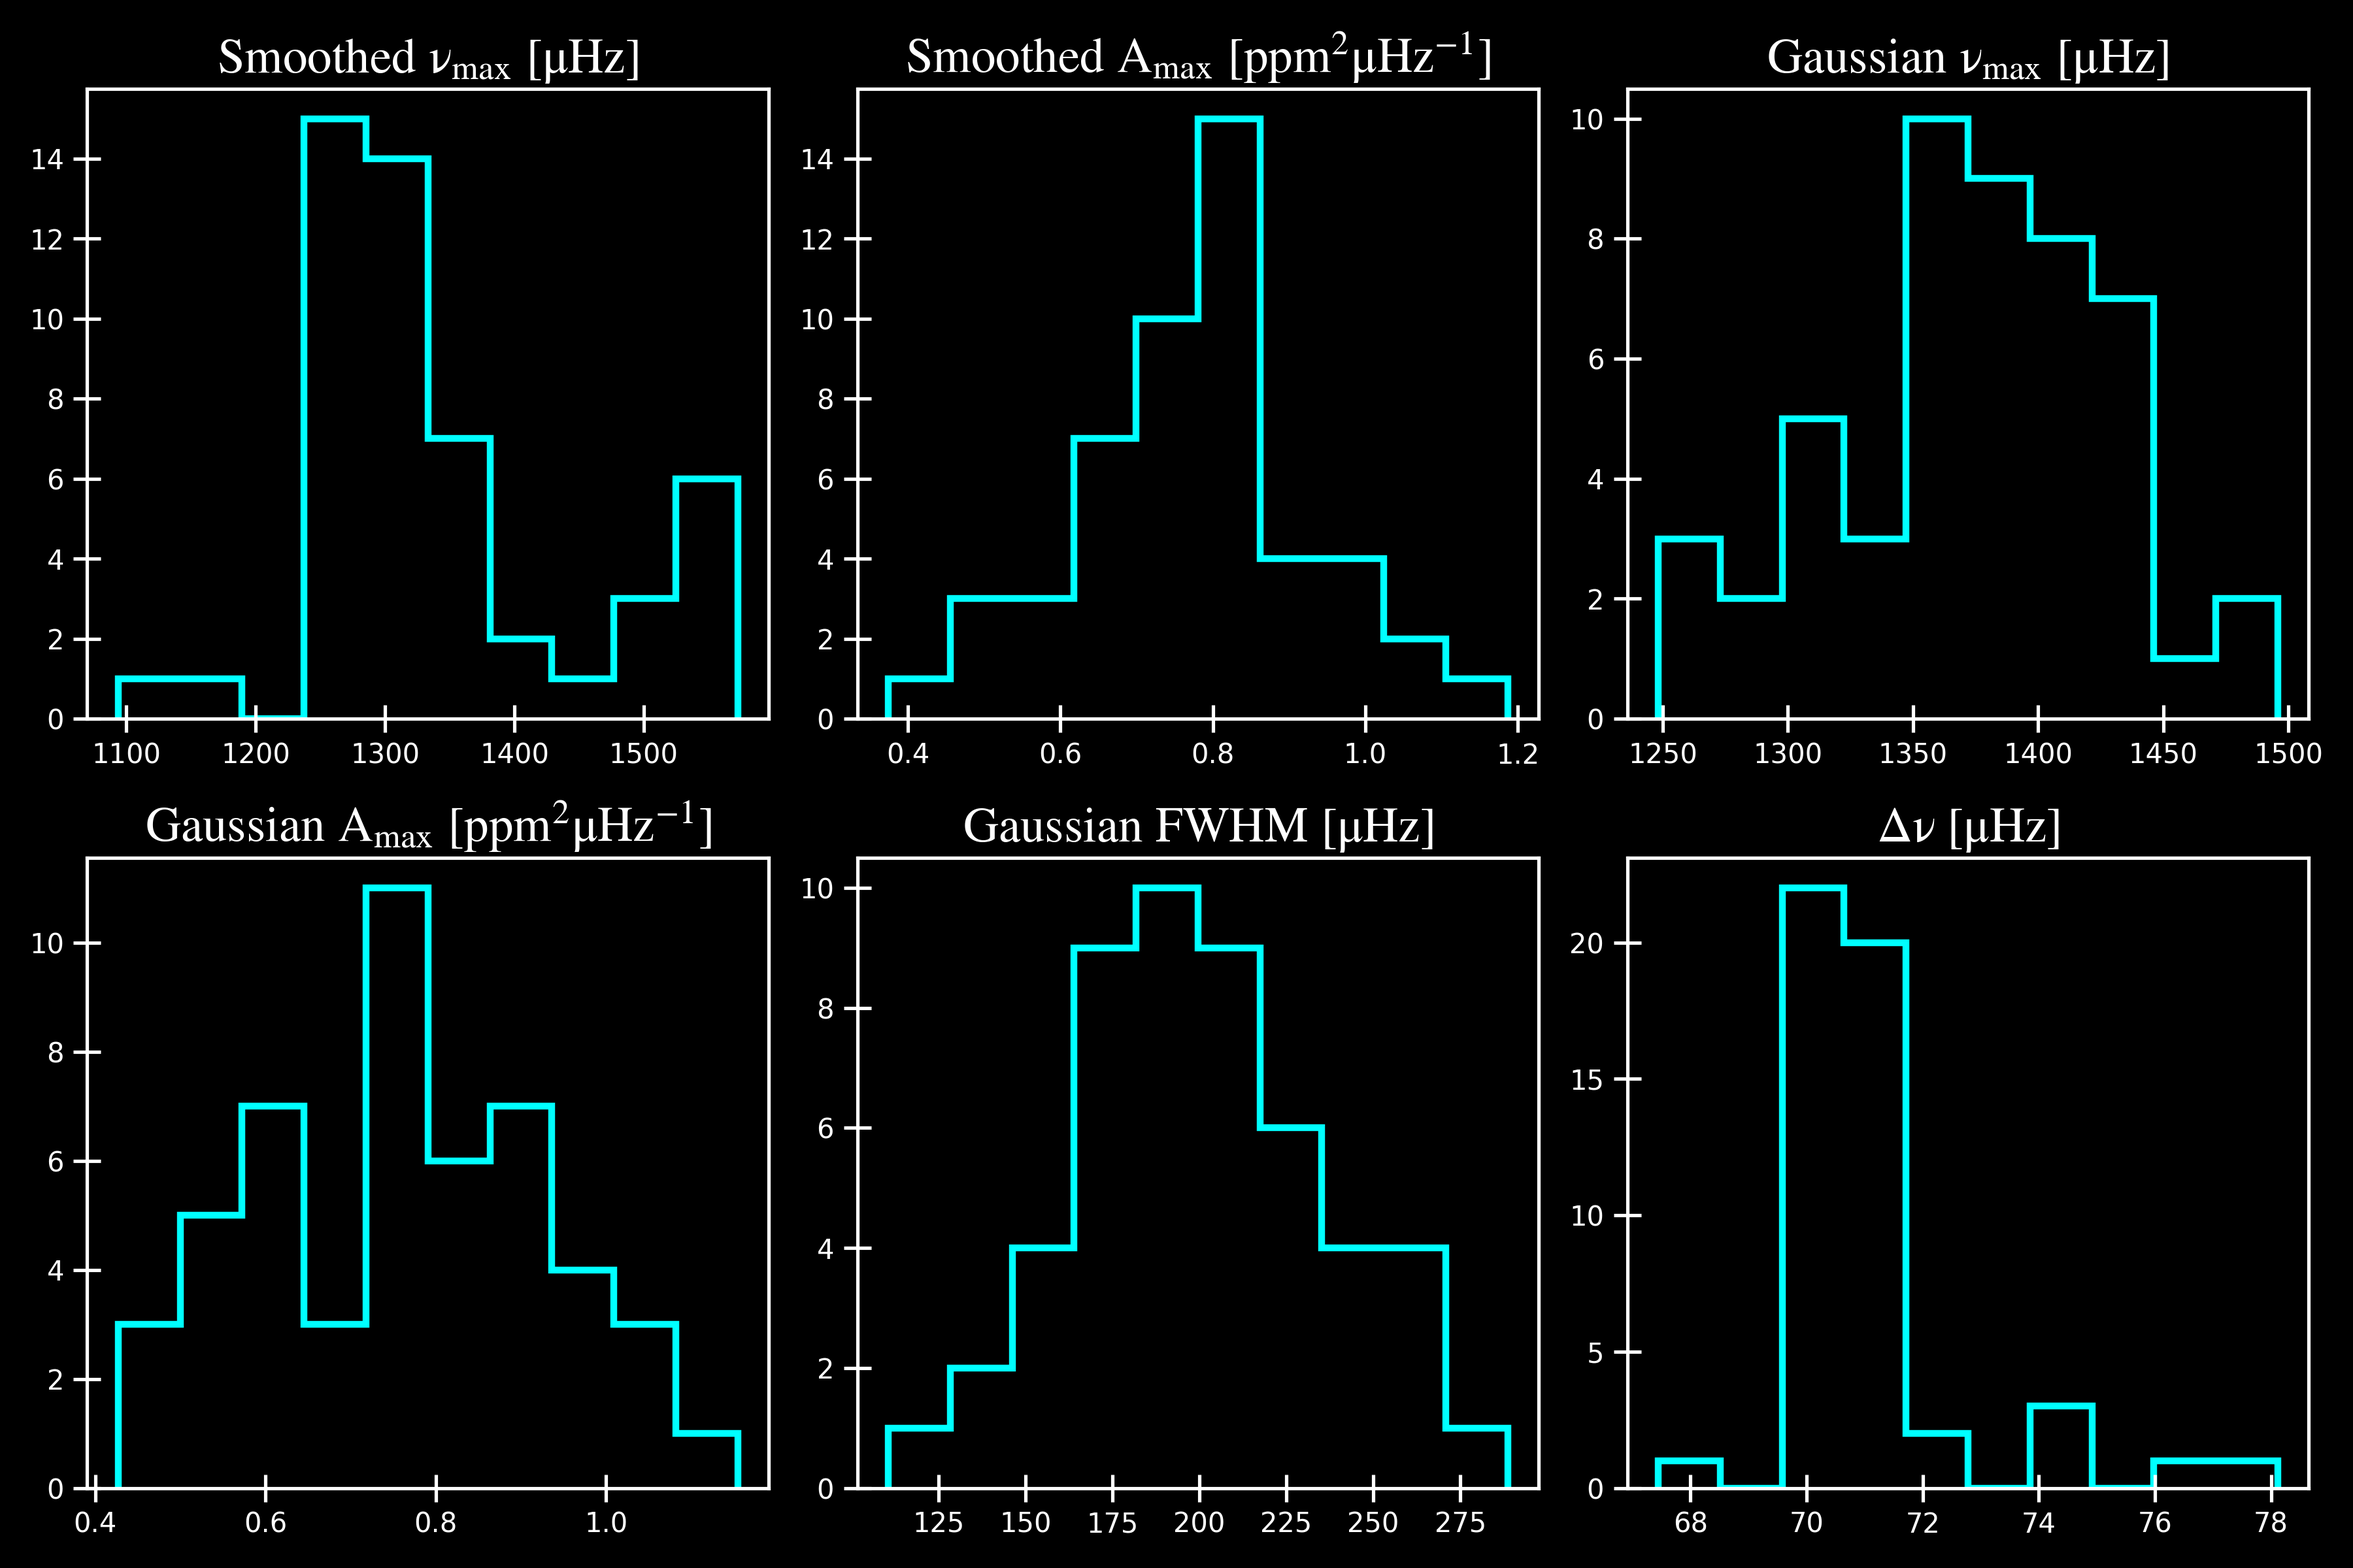
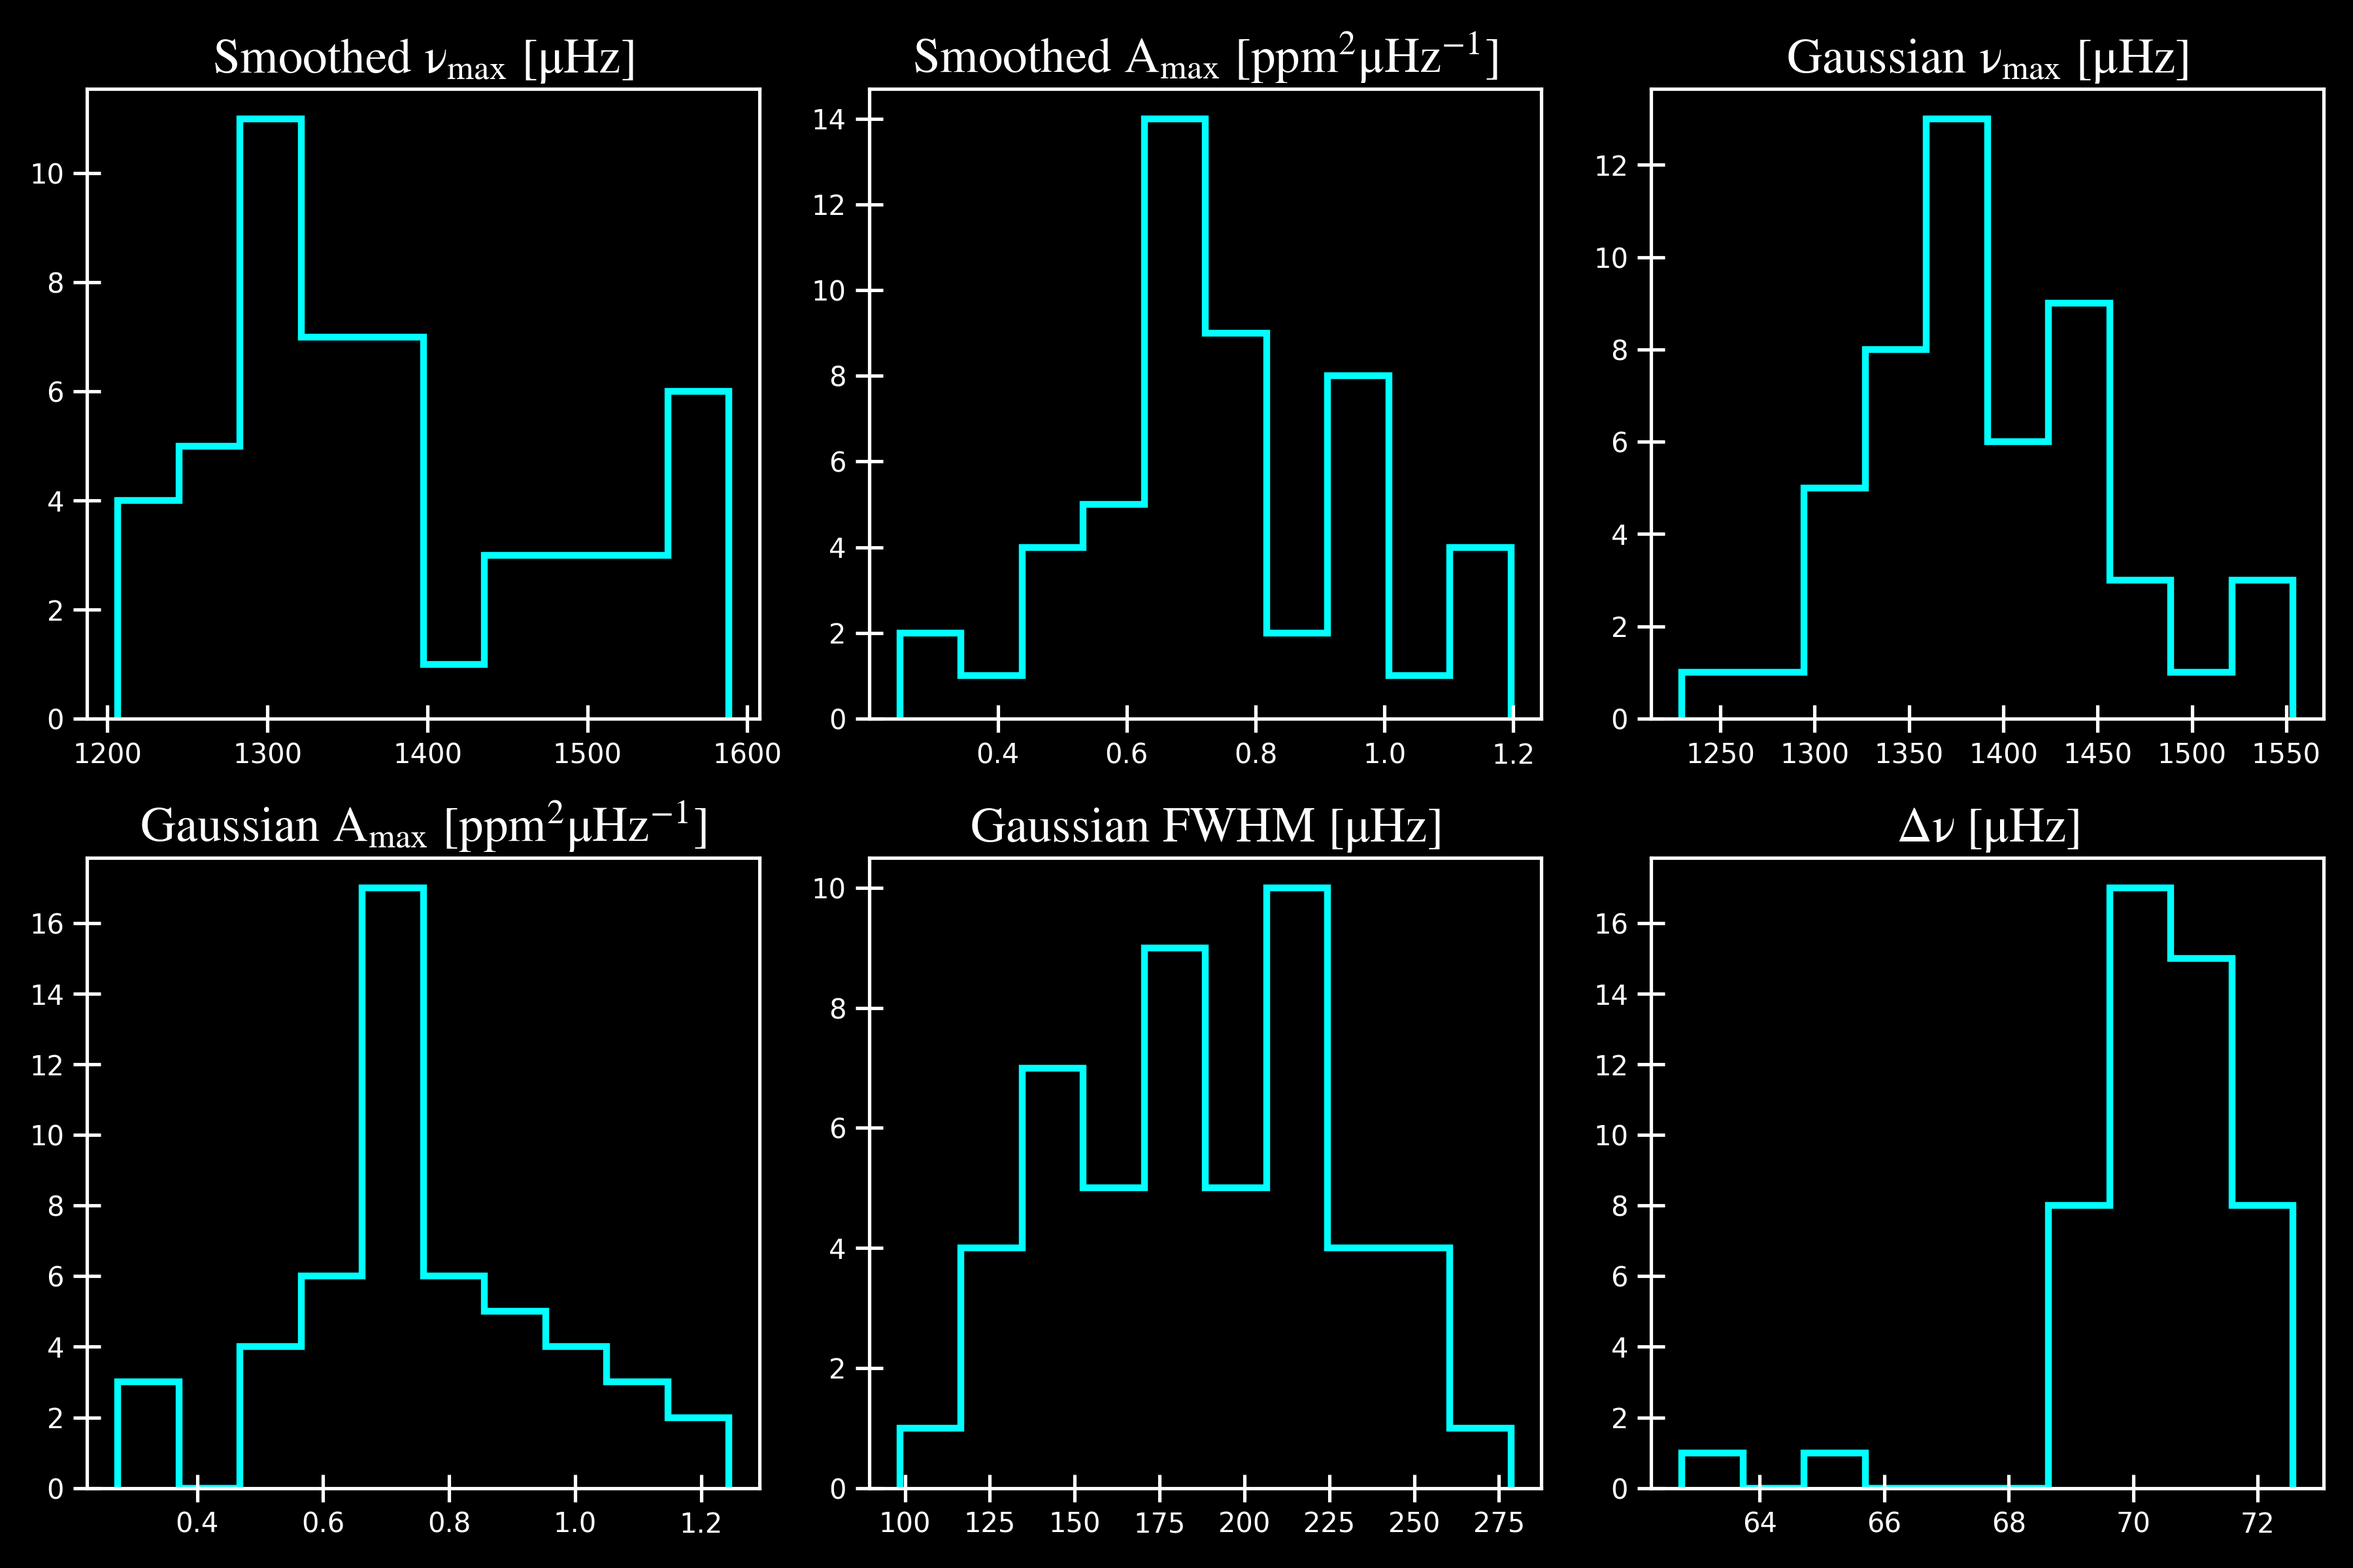
Added little subroutine to find the best dnu given the value found from the ACF. Similar in the sense to a step-echelle but uses information from the collapsed echelle to determine dnu.

diff --git a/SYD.py b/SYD.py
@@ -32,7 +32,7 @@ def main(findex=True, fitbg=True, verbose=True, show_plots=True, ignore=False):
             if PS.fitbg['do']:
                 PS.fit_background()
 
-    if verbose:
+    if PS.verbose:
         print('Combining results into single csv file.')
         print()
         subprocess.call(['python scrape_output.py'], shell=True)
@@ -673,14 +673,13 @@ class PowerSpectrum:
                 zoom_auto = auto[mask]
                 fit = gaussian(zoom_lag, p_gauss2[0], p_gauss2[1], p_gauss2[2], p_gauss2[3])
                 idx = self.return_max(fit, index=True)
-                final_pars[self.i,2*self.nlaws+6] = zoom_lag[idx]
 
                 if self.fitbg['force']:
                     self.dnu = self.fitbg['guess']
                 else:
                     self.dnu = zoom_lag[idx]
-
                 self.get_ridges()
+                final_pars[self.i,2*self.nlaws+6] = self.dnu
 
                 if self.i == 0:
                     self.pssm = pssm
@@ -856,7 +855,7 @@ class PowerSpectrum:
         ax4.plot(self.region_freq, self.region_pow, 'w-', zorder = 0)
         idx = self.return_max(self.region_pow, index=True)
         ax4.plot([self.region_freq[idx]], [self.region_pow[idx]], color = 'red', marker = 's', markersize = 7.5, zorder = 0)
-        ax4.axvline([self.region_freq[idx]], color = 'red', linestyle = '--', linewidth = 1.5, zorder = 0)
+        ax4.axvline([self.region_freq[idx]], color = 'white', linestyle = '--', linewidth = 1.5, zorder = 0)
         gaus = gaussian(self.region_freq, self.gauss_1[0], self.gauss_1[1], self.gauss_1[2], self.gauss_1[3])
         plot_min = 0.
         if min(self.region_pow) < plot_min:
@@ -885,7 +884,7 @@ class PowerSpectrum:
         ax5.set_title(r'$\rm Bg$-$\rm corrected \,\, PS$')
         ax5.set_xlabel(r'$\rm Frequency \,\, [\mu Hz]$')
         ax5.set_ylabel(r'$\rm Power$')
-        ax5.set_xlim([min(self.freq), max(self.freq)])
+        ax5.set_xlim([self.numax-self.width/2., self.numax+self.width/2.])
         ax5.set_ylim([min(self.psd)-0.025*(max(self.psd)-min(self.psd)), max(self.psd)+0.1*(max(self.psd)-min(self.psd))])
 
         # ACF for determining dnu
@@ -928,7 +927,7 @@ class PowerSpectrum:
 #        ax8.imshow(self.ech, extent = self.extent, interpolation = 'kaiser', aspect = 'auto', origin = 'lower', cmap = 'jet')
         ax8.axvline([self.dnu], color = 'white', linestyle = '--', linewidth = 1., dashes=(5,5))
         ax8.set_title(r'$\rm \grave{E}chelle \,\, diagram$')
-        ax8.set_xlabel(r'$\rm \nu \,\, mod \,\, \Delta\nu \,\, [\mu Hz]$')
+        ax8.set_xlabel(r'$\rm \nu \,\, mod \,\, %.2f \,\, [\mu Hz]$'%self.dnu)
         ax8.set_ylabel(r'$\rm \nu \,\, [\mu Hz]$')
         ax8.set_xlim([0., 2.*self.dnu])
         ax8.set_ylim([self.maxpower[0], self.maxpower[1]])
@@ -936,7 +935,7 @@ class PowerSpectrum:
         ax9 = fig.add_subplot(3,3,9)
         ax9.plot(self.xax, self.yax, color = 'white', linestyle = '-', linewidth = 0.75)
         ax9.set_title(r'$\rm Collapsed \,\, \grave{e}chelle \,\, diagram$')
-        ax9.set_xlabel(r'$\rm \nu \,\, mod \,\, \Delta\nu \,\, [\mu Hz]$')
+        ax9.set_xlabel(r'$\rm \nu \,\, mod \,\, %.2f \,\, [\mu Hz]$'%self.dnu)
         ax9.set_ylabel(r'$\rm Collapsed \,\, power$')
         ax9.set_xlim([0., 2.*self.dnu])
         ax9.set_ylim([min(self.yax)-0.025*(max(self.yax)-min(self.yax)), max(self.yax)+0.05*(max(self.yax)-min(self.yax))])
@@ -975,6 +974,9 @@ class PowerSpectrum:
 
     def get_ridges(self, start=0.):
 
+        if self.i == 0:
+            self.get_best_dnu()
+
         ech, gridx, gridy, extent = self.echelle()
         N, M = ech.shape[0], ech.shape[1]
         ech_copy = np.array(list(ech.reshape(-1)))
@@ -989,7 +991,7 @@ class PowerSpectrum:
             if len(use) == 0:
                 continue
             xax[k] = np.median(modx[use])
-            yax[k] = np.mean(self.bg_corr[use])
+            yax[k] = np.sum(self.bg_corr[use])
             start += self.resolution
 
         xax = np.array(list(xax)+list(xax+self.dnu))
@@ -1008,6 +1010,31 @@ class PowerSpectrum:
             self.extent = extent
             self.xax = xax
             self.yax = yax
+
+    def get_best_dnu(self):
+
+        dnus = np.arange(self.dnu-0.05*self.dnu, self.dnu+0.05*self.dnu, 0.01)
+        difference = np.zeros_like(dnus)
+
+        for x, d in enumerate(dnus):
+            start = 0.
+            n = int(np.ceil(d/self.resolution))
+            xax = np.zeros(n)
+            yax = np.zeros(n)
+            modx = self.original_freq%d
+
+            for k in range(n):
+                use = np.where((modx >= start)&(modx < start+self.resolution))[0]
+                if len(use) == 0:
+                    continue
+                xax[k] = np.median(modx[use])
+                yax[k] = np.sum(self.bg_corr[use])
+                start += self.resolution
+
+            difference[x] = np.max(yax)-np.mean(yax)
+
+        idx = self.return_max(difference, index=True)
+        self.dnu = dnus[idx]
 
     def echelle(self, n_across=20, startx=0.):
 
